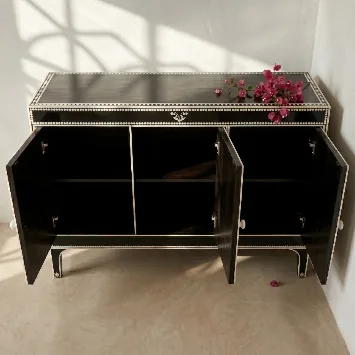
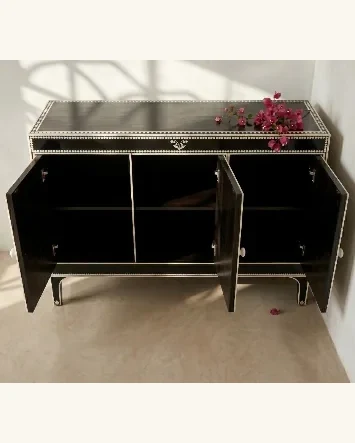
Fix Midnight Bloom Cabinet crop; swap cover images on 4 products
- Re-crop nc202 images: remove grey ceiling then pad to 4:5 so cabinet
  fills the frame
- Swap image order (img 2 → img 1) for Whispering Arch Jharoka,
  Sunehri Arch Mirror, Blush Jharoka, Diya Shelf Jharoka

diff --git a/products-data.js b/products-data.js
@@ -1645,7 +1645,7 @@ const RAIVANA_PRODUCTS = [
     variants: null,
     details: { material: "Solid Mango Wood", finish: "Distressed Antique White", type: "Wall-mounted jharoka frame", size: "16 × 30 in" },
     weight_g: 2500,
-    images: ["img/w114-1.webp", "img/w114-2.webp", "img/w114-3.webp"]
+    images: ["img/w114-2.webp", "img/w114-1.webp", "img/w114-3.webp"]
   },
   {
     id: 115,
@@ -1915,7 +1915,7 @@ const RAIVANA_PRODUCTS = [
     variants: null,
     details: { material: "Mango Wood", finish: "Butter Yellow with Pink Outline", size: "3 × 5 feet", craft: "Hand-carved floral vine arch" },
     weight_g: 7000,
-    images: ["img/nc135-1.webp", "img/nc135-2.webp"]
+    images: ["img/nc135-2.webp", "img/nc135-1.webp"]
   },
   {
     id: 136,
@@ -3047,7 +3047,7 @@ const RAIVANA_PRODUCTS = [
     variants: null,
     details: { material: "Solid seasoned mango wood, handcarved", size: "5 × 9 in / 12.7 × 22.8 cm approx", use: "Hang solo as a photo frame or cluster for a gallery wall" },
     weight_g: 1500,
-    images: ["img/nc214-1.webp", "img/nc214-2.webp"]
+    images: ["img/nc214-2.webp", "img/nc214-1.webp"]
   },
   {
     id: 215,
@@ -3173,7 +3173,7 @@ const RAIVANA_PRODUCTS = [
     variants: null,
     details: { material: "Solid reclaimed wood, handcarved", finish: "Natural walnut / aged wood, no paint", use: "Hang solo or cluster as a gallery wall; each piece is unique" },
     weight_g: 2000,
-    images: ["img/nc223-1.webp", "img/nc223-2.webp"]
+    images: ["img/nc223-2.webp", "img/nc223-1.webp"]
   },
   {
     id: 224,
